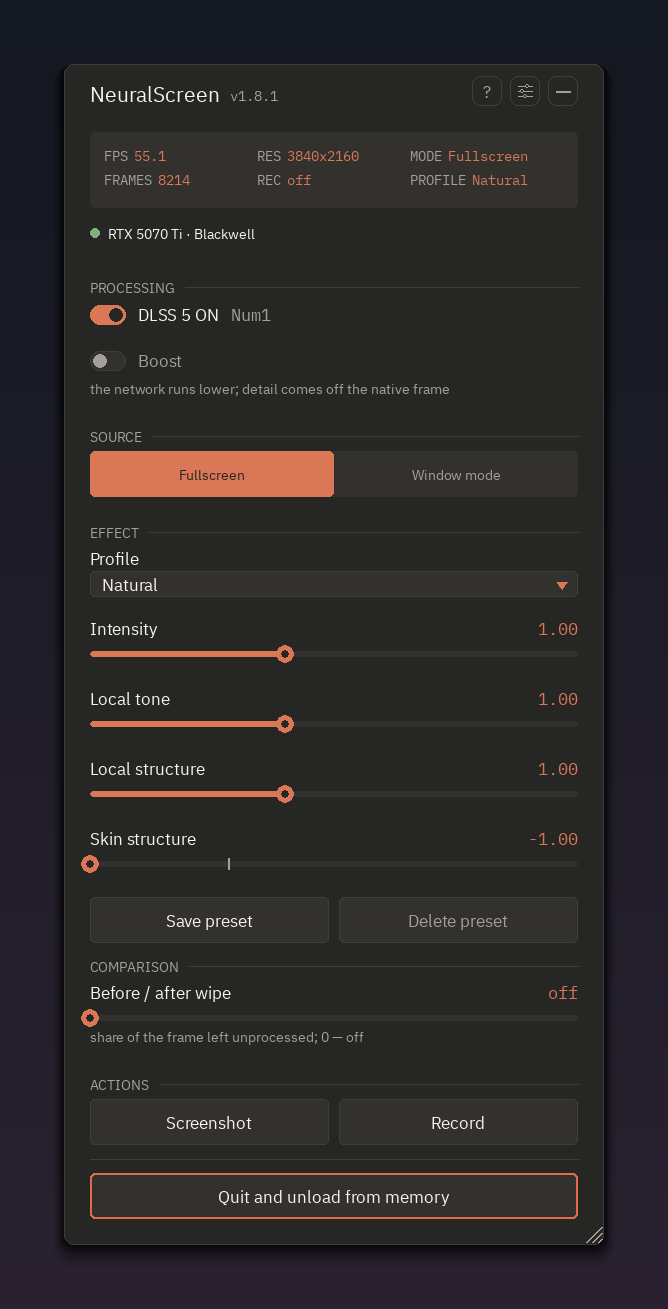
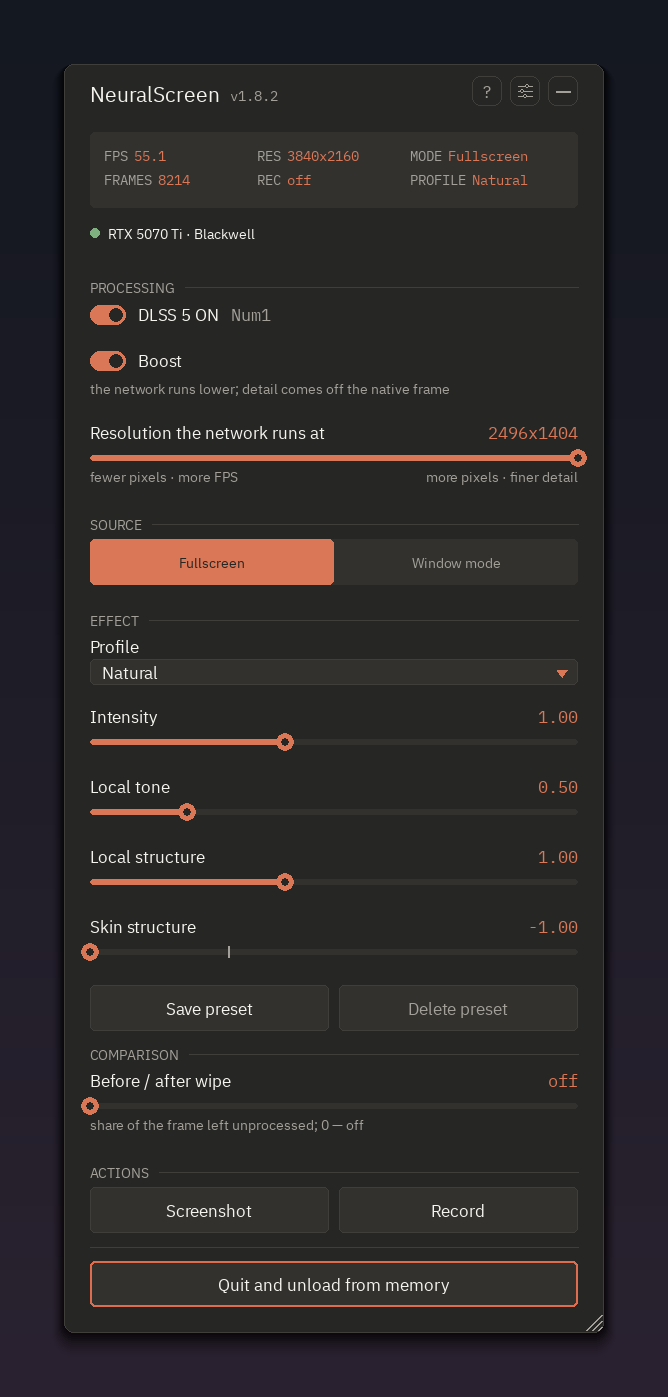
ui: Boost is on by default, and every profile's local tone is half a point lower
Both by request (user, 13.09).

**Boost on.** It shipped off because it had only been measured on still
frames, and that caution has outlived its reason: it has been in a release
since 1.7.0, and on a 5070 Ti at 4K it is 45.7 -> 72.6 frames for a picture
that is indistinguishable at 1:1 - the residual composite puts the detail
back off the native frame. The switch is still there for anyone who wants
to compare.

**local_tone -0.5 in all four profiles** (0.75/1.00/1.40/2.00 ->
0.25/0.50/0.90/1.50). The local tone mapping is the part that lifts
shadows and flattens contrast, and at the old values it was doing more of
that than the picture wanted - most of all on dark scenes, where the
brightening this program does anyway meets it head on. The sliders still
reach everything they reached: this moves where the profiles sit, not what
the range allows.

The READMEs say "on by default" now, and the documentation renderer takes
the shipped defaults instead of its own - so the pictures show what a
first launch shows, Boost on with the resolution slider under it, and
Local tone at 0.50.

diff --git a/settings_io.py b/settings_io.py
@@ -115,7 +115,7 @@ def _set_autostart(enabled: bool) -> bool:
 
 # The version shown in the menu header. Kept in sync with native/launcher.rc
 # (FileVersion/ProductVersion) and build_release_zip.py at release time.
-APP_VERSION = "1.8.1"
+APP_VERSION = "1.8.2"
 
 
 # The channel label: the header shows the version, the channel lives in the
@@ -124,15 +124,23 @@ CHANNEL_LABEL = "@perseval_BLR"
 
 
 # --- DLSS 5 NR profiles (field order as in the converter) -----------------
+#
+# local_tone is half a point lower in every profile than it was through
+# 1.8.1 (user, 13.09). The local tone mapping is the part that lifts
+# shadows and flattens contrast, and at the old values it was doing more of
+# that than the picture wanted - most visibly on dark scenes, where the
+# brightening this program does anyway meets it head on. The four sliders
+# still reach everything they reached: this moves where the profiles sit,
+# not what the range allows.
 PROFILES = {
     "Faithful": dict(profile=0, preset=0, style=0, auto_mask=0, ui_correction=0,
-                     intensity=0.70, local_tone=0.75, local_structure=0.75, skin_structure=-1.0),
+                     intensity=0.70, local_tone=0.25, local_structure=0.75, skin_structure=-1.0),
     "Natural": dict(profile=1, preset=0, style=1, auto_mask=0, ui_correction=0,
-                    intensity=1.00, local_tone=1.00, local_structure=1.00, skin_structure=-1.0),
+                    intensity=1.00, local_tone=0.50, local_structure=1.00, skin_structure=-1.0),
     "Strong / Cinematic": dict(profile=2, preset=2, style=2, auto_mask=1, ui_correction=0,
-                               intensity=1.65, local_tone=1.40, local_structure=1.50, skin_structure=1.0),
+                               intensity=1.65, local_tone=0.90, local_structure=1.50, skin_structure=1.0),
     "Extreme / Overdrive": dict(profile=2, preset=2, style=2, auto_mask=1, ui_correction=0,
-                                intensity=2.50, local_tone=2.00, local_structure=2.00, skin_structure=1.5),
+                                intensity=2.50, local_tone=1.50, local_structure=2.00, skin_structure=1.5),
 }
 
 

diff --git a/tests/autocheck.py b/tests/autocheck.py
@@ -88,9 +88,9 @@ def personal_config_keys():
 
 
 def zip_integrity():
-    zpath = ROOT / "neuralscreen-v1.8.1-full.zip"
+    zpath = ROOT / "neuralscreen-v1.8.2-full.zip"
     if not zpath.is_file():
-        return False, "no neuralscreen-v1.8.1-full.zip"
+        return False, "no neuralscreen-v1.8.2-full.zip"
     required = [
         "main.py", "gpuinfo.py", "overlay_ui.py", "i18n.py", "recorder.py",
         "display.py", "guides.py", "hotkeys.py", "tray.py", "capture.py",
@@ -179,8 +179,8 @@ def zip_integrity():
         zsha = hashlib.sha256(zip_dll).hexdigest()
         if f"sha256 {zsha}" not in vt:
             return False, "VERSION.txt runtime sha != the DLL inside the archive"
-        if "NeuralScreen 1.8.1" not in vt:
-            return False, "VERSION.txt version does not match v1.8.1"
+        if "NeuralScreen 1.8.2" not in vt:
+            return False, "VERSION.txt version does not match v1.8.2"
     return True, f"{zpath.stat().st_size} bytes, all files, the hook, a default config, a truthful manifest"
 
 

diff --git a/startup.py b/startup.py
@@ -263,7 +263,12 @@ def configure(st) -> None:
     # faster but softer, and an update must not change how the picture looks
     # without being asked. Toggling it later restarts the worker, which is why
     # it lives in the environment rather than in the frame protocol.
-    st.nr_small = bool(st.cfg.get("nr_small", False))
+    # Boost is ON unless a config says otherwise (user, 13.09). It was off
+    # by default because it had been measured on still frames only; it has
+    # been in a release since 1.7.0 now, and on a 5070 Ti at 4K it is
+    # 45.7 -> 72.6 frames for a picture that is indistinguishable at 1:1 -
+    # the residual composite puts the detail back off the native frame.
+    st.nr_small = bool(st.cfg.get("nr_small", True))
     os.environ["NS_NR_SMALL"] = "1" if st.nr_small else "0"
     # The Spout2 bridge is the same story: the worker reads NS_SPOUT once
     # at startup (SpoutBridgeInit), so the config flag becomes the

diff --git a/build_release_zip.py b/build_release_zip.py
@@ -17,7 +17,7 @@ from pathlib import Path
 BASE = Path(__file__).resolve().parent
 os.chdir(BASE)
 
-VERSION = "1.8.1"
+VERSION = "1.8.2"
 # The bundle is architecture-agnostic by design: the dcc0dc24 runtime and
 # the 0x1B0 spoof work on RTX 30/40/50 (v1.3.0 behaviour). The manifest
 # still records what is inside so a mismatch is catchable.

diff --git a/README.ru.md b/README.ru.md
@@ -96,11 +96,11 @@ Windows, скорее всего, предупредит о неизвестно
   автоматически, чтобы в тенях осталась детализация.
 - **Шторка до / после** — оставляет левую часть экрана необработанной, чтобы
   было видно, что делает эффект. Насмотрелись — верните на 0.
-- **Boost** — по умолчанию выключен. С ним сеть считает на пониженном
-  разрешении, а под тумблером появляется ползунок, на каком именно: замерено
-  на 5070 Ti в 4K — **45.7 → 72.6 кадра** на положении по умолчанию и **83.4**
-  на самом нижнем. Картинка остаётся резкой: результат сети ложится на ваш
-  исходный кадр, поэтому текст и края сохраняют полное разрешение.
+- **Boost** — по умолчанию включён. Сеть считает на пониженном разрешении, а
+  ползунок под тумблером выбирает, на каком именно: замерено на 5070 Ti в 4K —
+  **45.7 → 72.6 кадра** на положении по умолчанию и **83.4** на самом нижнем.
+  Картинка остаётся резкой: результат сети ложится на ваш исходный кадр,
+  поэтому текст и края сохраняют полное разрешение. Выключите, чтобы сравнить.
 
 Интерфейс говорит на **12 языках** — английский, русский, французский,
 немецкий, испанский, итальянский, португальский, польский, украинский,

diff --git a/README.md b/README.md
@@ -96,11 +96,12 @@ running on it, red when it is not.
   brightened automatically so shadows keep their detail.
 - **Before / after wipe** — leaves the left part of the screen unprocessed so
   you can see what the effect is doing. Back to 0 when done.
-- **Boost** — off by default. With it on, the network runs at a reduced
-  resolution and a slider appears to choose which: measured on a 5070 Ti at
-  4K, **45.7 → 72.6 frames** at the default step and **83.4** at the lowest.
+- **Boost** — on by default. The network runs at a reduced resolution and a
+  slider under the switch chooses which: measured on a 5070 Ti at 4K,
+  **45.7 → 72.6 frames** at the default step and **83.4** at the lowest.
   The picture stays sharp — the network's result is composed onto your
-  original frame, so text and edges keep full resolution. Try it and look.
+  original frame, so text and edges keep full resolution. Turn it off to
+  compare.
 
 The interface speaks **12 languages** — English, Russian, French, German,
 Spanish, Italian, Portuguese, Polish, Ukrainian, Chinese, Japanese and Korean.
